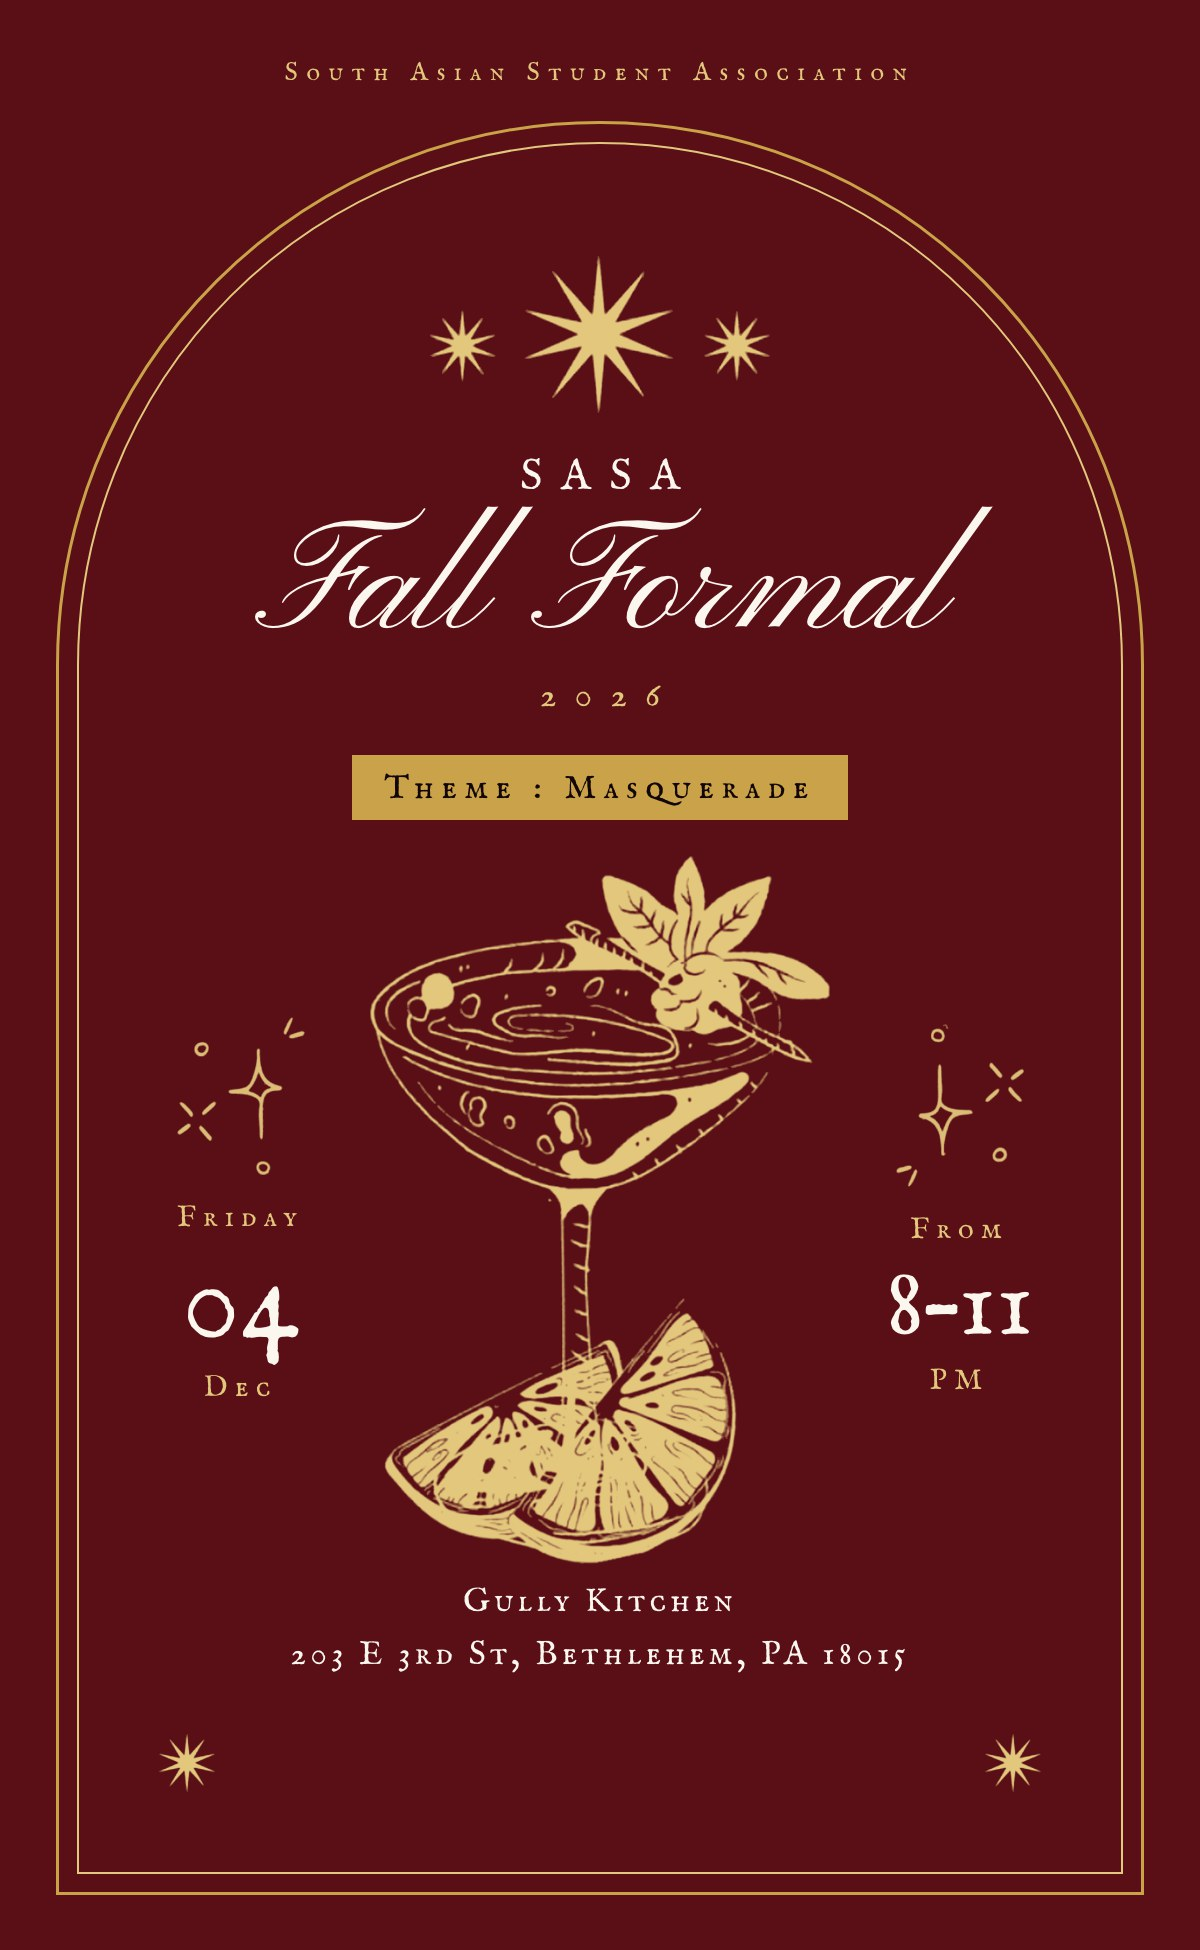
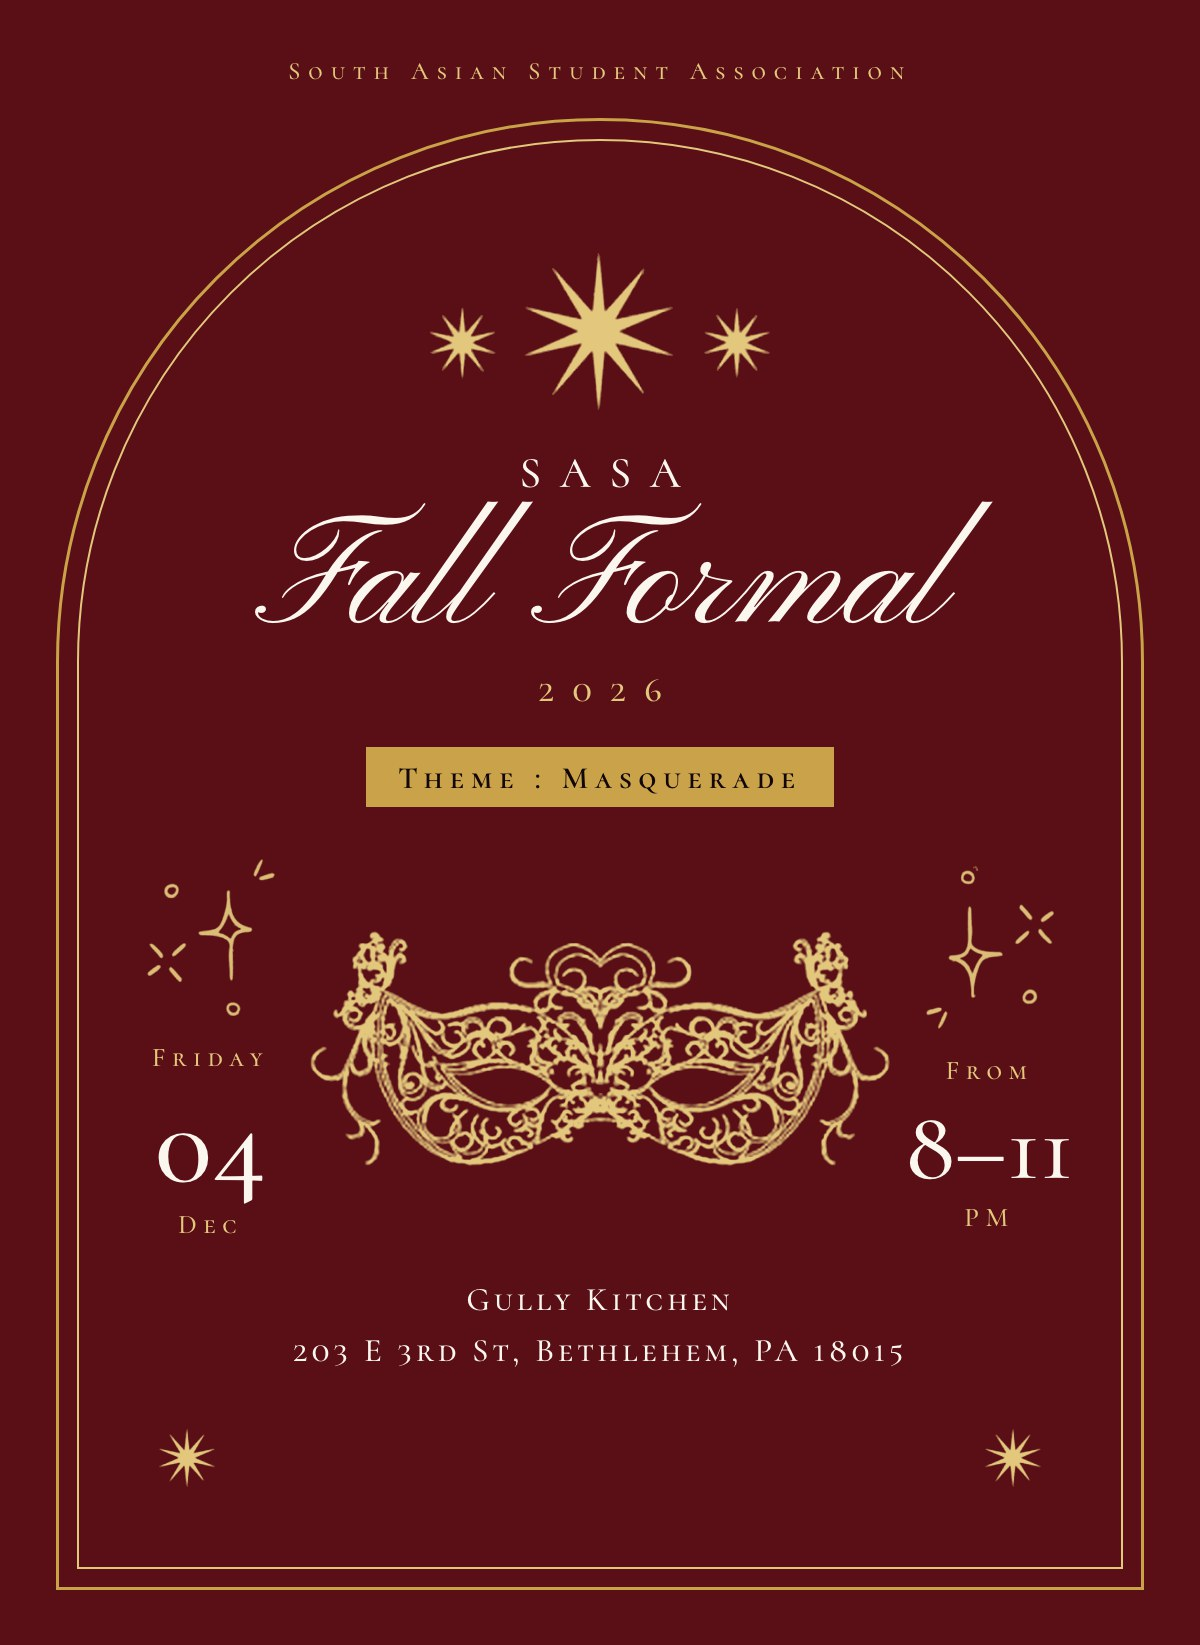
Invite: filigree mask centerpiece and softer Cormorant lettering
Keeps the maroon and gold scheme; email poster re-rendered to match.

diff --git a/email.html b/email.html
@@ -25,7 +25,7 @@
     </td></tr>
 
     <!-- letter -->
-    <tr><td style="padding:6px 46px 0 46px; font-family:'IM Fell English',Georgia,'Times New Roman',serif; color:#efe6d8;">
+    <tr><td style="padding:6px 46px 0 46px; font-family:'Cormorant Garamond',Georgia,'Times New Roman',serif; color:#efe6d8;">
       <p style="margin:0 0 14px 0; font-family:'Pinyon Script','Snell Roundhand',Georgia,serif; font-style:italic; font-size:34px; line-height:1.1; color:#e2c77d;">Hello,</p>
       <p style="margin:0 0 14px 0; font-size:16px; line-height:1.75; color:#efe6d8;">This semester wouldn't have been the same without you. We are so grateful you are part of <span style="color:#e2c77d; font-style:italic;">SASA</span> and we would love to celebrate that with you.</p>
       <p style="margin:0; font-size:16px; line-height:1.75; color:#efe6d8;">You are officially invited to <b style="font-style:italic; color:#ffffff;">SASA Fall Formal 2026</b>. Come dressed up, masked up, ready to make memories, and prepared for a night you won't forget. We can't wait to <b style="font-style:italic; color:#ffffff;">see you there</b>! Peep the <b style="font-style:italic; color:#ffffff;">vision</b> for the night <a href="https://kripahsk-29.github.io/SASA-Fall-Formal/" target="_blank" style="color:#e2c77d; font-weight:bold; letter-spacing:1px; text-decoration:underline;">HERE</a>! If you have any questions, reach out to us at <a href="mailto:insasa@lehigh.edu" style="color:#e2c77d; text-decoration:underline;">insasa@lehigh.edu</a></p>
@@ -35,15 +35,15 @@
     <tr><td style="padding:26px 46px 0 46px;">
       <table role="presentation" width="100%" cellpadding="0" cellspacing="0" border="0" style="border-top:1px solid #8a6a32; border-bottom:1px solid #8a6a32;">
         <tr><td style="padding:22px 0 0 4px; width:96px; vertical-align:top; font-family:Georgia,serif; font-size:11px; letter-spacing:3px; color:#c9a24a; text-transform:uppercase;">Date</td>
-            <td style="padding:20px 0 0 0; vertical-align:top; font-family:'IM Fell English',Georgia,serif; font-style:italic; font-size:18px; color:#ffffff;">Friday, December 4th</td></tr>
+            <td style="padding:20px 0 0 0; vertical-align:top; font-family:'Cormorant Garamond',Georgia,serif; font-style:italic; font-size:18px; color:#ffffff;">Friday, December 4th</td></tr>
         <tr><td style="padding:14px 0 0 4px; vertical-align:top; font-family:Georgia,serif; font-size:11px; letter-spacing:3px; color:#c9a24a; text-transform:uppercase;">Time</td>
-            <td style="padding:12px 0 0 0; vertical-align:top; font-family:'IM Fell English',Georgia,serif; font-style:italic; font-size:18px; color:#ffffff;">8:00 — 11:00 pm</td></tr>
+            <td style="padding:12px 0 0 0; vertical-align:top; font-family:'Cormorant Garamond',Georgia,serif; font-style:italic; font-size:18px; color:#ffffff;">8:00 — 11:00 pm</td></tr>
         <tr><td style="padding:14px 0 0 4px; vertical-align:top; font-family:Georgia,serif; font-size:11px; letter-spacing:3px; color:#c9a24a; text-transform:uppercase;">Venue</td>
-            <td style="padding:12px 0 0 0; vertical-align:top; font-family:'IM Fell English',Georgia,serif; font-style:italic; font-size:18px; color:#ffffff;">Gully Kitchen, <a href="https://maps.google.com/?q=Gully+Kitchen+203+E+3rd+St+Bethlehem+PA+18015" target="_blank" style="color:#ffffff; text-decoration:underline;">203 E 3rd St, Bethlehem, PA 18015</a></td></tr>
+            <td style="padding:12px 0 0 0; vertical-align:top; font-family:'Cormorant Garamond',Georgia,serif; font-style:italic; font-size:18px; color:#ffffff;">Gully Kitchen, <a href="https://maps.google.com/?q=Gully+Kitchen+203+E+3rd+St+Bethlehem+PA+18015" target="_blank" style="color:#ffffff; text-decoration:underline;">203 E 3rd St, Bethlehem, PA 18015</a></td></tr>
         <tr><td style="padding:14px 0 0 4px; vertical-align:top; font-family:Georgia,serif; font-size:11px; letter-spacing:3px; color:#c9a24a; text-transform:uppercase;">Theme</td>
-            <td style="padding:12px 0 0 0; vertical-align:top; font-family:'IM Fell English',Georgia,serif; font-style:italic; font-size:18px; color:#ffffff;">Masquerade · Masks provided</td></tr>
+            <td style="padding:12px 0 0 0; vertical-align:top; font-family:'Cormorant Garamond',Georgia,serif; font-style:italic; font-size:18px; color:#ffffff;">Masquerade · Masks provided</td></tr>
         <tr><td style="padding:14px 0 22px 4px; vertical-align:top; font-family:Georgia,serif; font-size:11px; letter-spacing:3px; color:#c9a24a; text-transform:uppercase;">Tickets</td>
-            <td style="padding:12px 0 22px 0; vertical-align:top; font-family:'IM Fell English',Georgia,serif; font-style:italic; font-size:18px; color:#ffffff;">$20 until December 1st · $30 after</td></tr>
+            <td style="padding:12px 0 22px 0; vertical-align:top; font-family:'Cormorant Garamond',Georgia,serif; font-style:italic; font-size:18px; color:#ffffff;">$20 until December 1st · $30 after</td></tr>
       </table>
     </td></tr>
 
@@ -61,7 +61,7 @@
     </td></tr>
 
     <!-- sign-off -->
-    <tr><td style="padding:32px 46px 36px 46px; font-family:'IM Fell English',Georgia,serif;">
+    <tr><td style="padding:32px 46px 36px 46px; font-family:'Cormorant Garamond',Georgia,serif;">
       <p style="margin:0; font-style:italic; font-size:17px; color:#efe6d8;">With so much love,</p>
       <p style="margin:8px 0 0 0; font-family:Georgia,serif; font-size:20px; letter-spacing:5px; text-transform:uppercase; color:#e2c77d;">SASA Exec</p>
     </td></tr>

diff --git a/invitation.html b/invitation.html
@@ -6,6 +6,7 @@
 <title>SASA Fall Formal 2026</title>
 <link rel="preconnect" href="https://fonts.googleapis.com">
 <link rel="preconnect" href="https://fonts.gstatic.com" crossorigin>
+<link href="https://fonts.googleapis.com/css2?family=Cormorant+Garamond:ital,wght@0,400;0,500;0,600;1,400;1,500&family=Cormorant+SC:wght@500;600&display=swap" rel="stylesheet">
 <link href="https://fonts.googleapis.com/css2?family=IM+Fell+English:ital@0;1&family=IM+Fell+English+SC&family=Pinyon+Script&display=swap" rel="stylesheet">
 <style>
   :root {
@@ -287,6 +288,33 @@
     .details dt:not(:first-child) { margin-top: 12px; }
     .letter p { font-size: 16.5px; }
   }
+  /* ── softer lettering: script title stays, everything else Cormorant ── */
+  body, .letter p, .details dd, .signoff .with-love, .stamp .big {
+    font-family: 'Cormorant Garamond', Georgia, serif;
+  }
+  .kicker, .org, .year, .theme-line, .stamp .small, .venue, .details dt,
+  .rsvp, .signoff .exec, footer, .letter a.here {
+    font-family: 'Cormorant SC', 'Cormorant Garamond', Georgia, serif;
+    font-weight: 500;
+  }
+  .letter p { font-size: 17px; font-weight: 500; }
+  .details dd { font-size: 18.5px; font-weight: 500; }
+  .signoff .with-love { font-size: 17.5px; }
+  .stamp .big { font-weight: 500; }
+  .venue { font-size: 16.5px; }
+  .kicker { font-size: 12.5px; }
+  .details dt { font-size: 12.5px; }
+  .signoff .exec { font-size: 22px; }
+  .theme-line { font-size: 15.5px; font-weight: 600; }
+  .rsvp { font-size: 14px; font-weight: 600; }
+  .stamp .small { font-size: 13.5px; }
+
+  /* mask is wide, so give the middle column more room */
+  .feature { grid-template-columns: 1fr minmax(0, 290px) 1fr; margin-top: 26px; margin-bottom: 18px; }
+  @media (max-width: 520px) {
+    .feature { grid-template-columns: 1fr minmax(0, 170px) 1fr; }
+    .letter p { font-size: 16px; }
+  }
 </style>
 </head>
 <body>
@@ -314,7 +342,7 @@
           <div class="small">Dec</div>
         </div>
 
-        <img class="centerpiece" src="art/coupe.png" alt="Hand-drawn coupe glass with a garnish and orange slices">
+        <img class="centerpiece" src="art/mask-gold.png" alt="Gold filigree masquerade mask">
 
         <div class="stamp">
           <img class="sparkle" src="art/sparkle-right.png" alt="" aria-hidden="true">
